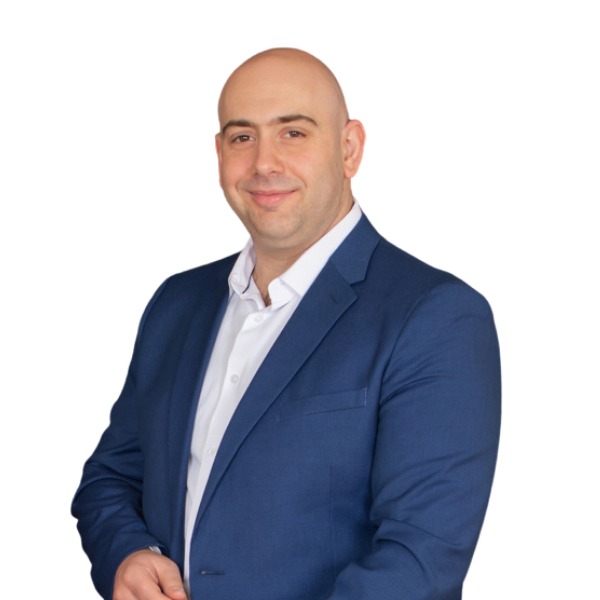
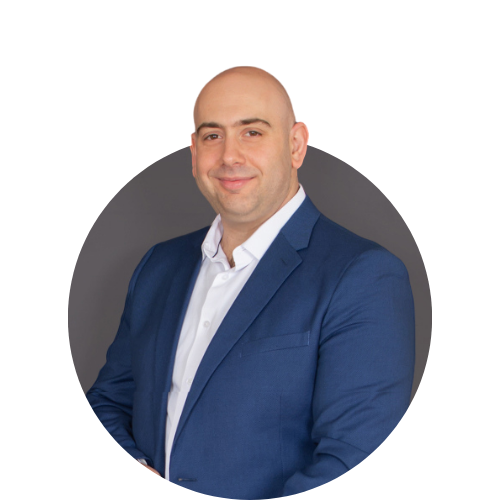
update 0817

diff --git a/index.html b/index.html
@@ -85,7 +85,7 @@
             <div class="row g-5">
                 <div class="col-lg-4 sticky-lg-top vh-100">
                     <div class="d-flex flex-column h-100 text-center overflow-auto shadow">
-                        <img class="w-100 mypic img-fluid" src="assets/img/profile.jpg" alt="Pablo Alejandro Londero - Software Engineer">
+                        <img class="w-100 mypic img-fluid" src="assets/img/profile.png" alt="Pablo Alejandro Londero - Software Engineer">
                         <h1 class="name mt-2">Pablo Alejandro Londero</h1>
                         
                         <!-- Professional Tagline -->
@@ -104,7 +104,7 @@
                         
                         <!-- Social Links -->
                         <div class="d-flex justify-content-center mt-auto mb-3">
-                            <a class="btn btn-secondary btn-square mx-1" href="https://github.com/plondero" aria-label="GitHub Profile" target="_blank" rel="noopener">
+                            <a class="btn btn-secondary btn-square mx-1" href="https://github.com/gotanweb" aria-label="GitHub Profile" target="_blank" rel="noopener">
                                 <i class="fab fa-github"></i>
                             </a>
                             <a class="btn btn-secondary btn-square mx-1" href="https://public.tableau.com/app/profile/pablo.alejandro.londero" aria-label="Tableau Public Profile" target="_blank" rel="noopener">
@@ -113,14 +113,14 @@
                             <a class="btn btn-secondary btn-square mx-1" href="https://www.linkedin.com/in/pablo-londero/" aria-label="LinkedIn Profile" target="_blank" rel="noopener">
                                 <i class="fab fa-linkedin-in"></i>
                             </a>
-                            <a class="btn btn-secondary btn-square mx-1" href="mailto:pablo@plondero.com" aria-label="Email Contact">
+                            <a class="btn btn-secondary btn-square mx-1" href="mailto:pablo.londero88@gmail.com" aria-label="Email Contact">
                                 <i class="fas fa-envelope"></i>
                             </a>
                         </div>
                         
                         <!-- Action Buttons -->
                         <div class="d-flex align-items-end justify-content-between border-top">
-                            <a href="https://drive.google.com/file/d/1qwK3eKsjycST_HtduB3-6XkCS1_DC_Bo/view?usp=sharing" class="btn w-50 border-end" target="_blank" rel="noopener">
+                            <a href="https://1drv.ms/b/c/d5c2d7a177f587de/EaFTlsd2WfRIpP61vTx1iTUBUCB-5U4SbrUtkEa46iZp2Q?e=YcWCyd" class="btn w-50 border-end" target="_blank" rel="noopener">
                                 <i class="fas fa-download me-1"></i>Download CV
                             </a>
                             <a href="#contact" class="btn w-50 btn-scroll">
@@ -193,19 +193,19 @@
                                     <div class="skill-item mb-3">
                                         <div class="d-flex justify-content-between mb-1">
                                             <span>Tableau & Power BI</span>
-                                            <span>90%</span>
+                                            <span>85%</span>
                                         </div>
                                         <div class="progress">
-                                            <div class="progress-bar bg-primary" role="progressbar" style="width: 90%"></div>
+                                            <div class="progress-bar bg-primary" role="progressbar" style="width: 85%"></div>
                                         </div>
                                     </div>
                                     <div class="skill-item mb-3">
                                         <div class="d-flex justify-content-between mb-1">
                                             <span>Python & R</span>
-                                            <span>85%</span>
+                                            <span>70%</span>
                                         </div>
                                         <div class="progress">
-                                            <div class="progress-bar bg-primary" role="progressbar" style="width: 85%"></div>
+                                            <div class="progress-bar bg-primary" role="progressbar" style="width: 70%"></div>
                                         </div>
                                     </div>
                                     <div class="skill-item mb-3">
@@ -236,28 +236,28 @@
                                     <div class="skill-item mb-3">
                                         <div class="d-flex justify-content-between mb-1">
                                             <span>Python</span>
-                                            <span>85%</span>
+                                            <span>70%</span>
                                         </div>
                                         <div class="progress">
-                                            <div class="progress-bar bg-success" role="progressbar" style="width: 85%"></div>
+                                            <div class="progress-bar bg-success" role="progressbar" style="width: 70%"></div>
                                         </div>
                                     </div>
                                     <div class="skill-item mb-3">
                                         <div class="d-flex justify-content-between mb-1">
                                             <span>Java</span>
-                                            <span>75%</span>
+                                            <span>40%</span>
                                         </div>
                                         <div class="progress">
-                                            <div class="progress-bar bg-success" role="progressbar" style="width: 75%"></div>
+                                            <div class="progress-bar bg-success" role="progressbar" style="width: 40%"></div>
                                         </div>
                                     </div>
                                     <div class="skill-item mb-3">
                                         <div class="d-flex justify-content-between mb-1">
                                             <span>C/C++</span>
-                                            <span>70%</span>
+                                            <span>75%</span>
                                         </div>
                                         <div class="progress">
-                                            <div class="progress-bar bg-success" role="progressbar" style="width: 70%"></div>
+                                            <div class="progress-bar bg-success" role="progressbar" style="width: 75%"></div>
                                         </div>
                                     </div>
                                 </div>
@@ -313,7 +313,6 @@
                                         </p>
                                     </div>
                                     <div class="timeline-body">
-                                        <p class="mb-3"><strong>ERP Development Leader | Data Architecture Specialist</strong></p>
                                         <ul class="timeline-achievements">
                                             <li>Designed and developed <strong>custom, high-performance</strong> websites using responsive design principles, modern frameworks, and scalable architectures.</li>
                                             <li>Administered and optimized MySQL relational databases, ensuring data integrity, query performance optimization, and secure access protocols.</li>
@@ -321,11 +320,14 @@
                                             <li>Implemented frontend and backend features in PHP, Laravel, and JavaScript, improving user experience and workflow efficiency.</li>
                                         </ul>
                                         <div class="tech-stack mt-3">
+                                            <span class="badge tech-badge m-1">HTML5</span>
+                                            <span class="badge tech-badge m-1">CSS3</span>
+                                            <span class="badge tech-badge m-1">JS</span>
+                                            <span class="badge tech-badge m-1">PHP</span>
+                                            <span class="badge tech-badge m-1">Laravel</span>
                                             <span class="badge tech-badge m-1">SQL</span>
-                                            <span class="badge tech-badge m-1">Meta4 PeopleNet</span>
+                                            <span class="badge tech-badge m-1">Power BI</span>
                                             <span class="badge tech-badge m-1">Tableau</span>
-                                            <span class="badge tech-badge m-1">Python</span>
-                                            <span class="badge tech-badge m-1">Oracle PL/SQL</span>
                                         </div>
                                     </div>
                                 </div>
@@ -345,15 +347,16 @@
                                     <div class="timeline-body">
                                         <p class="mb-3"><strong>ERP Development Leader | Data Architecture Specialist</strong></p>
                                         <ul class="timeline-achievements">
-                                            <li>Led ERP development projects for Payroll and HR modules, managing datasets of <strong>1M+ records</strong></li>
-                                            <li>Achieved <strong>25% reduction</strong> in payroll processing time through query optimization</li>
-                                            <li>Developed interactive dashboards using Tableau for C-level decision making</li>
-                                            <li>Implemented data migration strategies with <strong>99.9% accuracy</strong></li>
-                                            <li>Mentored team of 5 junior developers on best practices</li>
+                                            <li>Led ERP development projects for Payroll and HR modules, ensuring system scalability and compliance with industry standards.</li>
+                                            <li>Utilized SQL and Meta4 PeopleNet to manage and migrate large datasets, enhancing system performance and reliability.</li>
+                                            <li>Developed interactive dashboards and custom reports in Power BI to optimize payroll operations and support informed decision-making.</li>
+                                            <li>Collaborated with cross-functional teams to identify pain points, delivering tailored technical solutions.</li>
+                                            <li>Optimized database queries and workflows, reducing payroll task execution time by 25%.</li>
                                         </ul>
                                         <div class="tech-stack mt-3">
                                             <span class="badge tech-badge m-1">SQL</span>
                                             <span class="badge tech-badge m-1">Meta4 PeopleNet</span>
+                                            <span class="badge tech-badge m-1">ERP</span>
                                             <span class="badge tech-badge m-1">Tableau</span>
                                             <span class="badge tech-badge m-1">Python</span>
                                             <span class="badge tech-badge m-1">Oracle PL/SQL</span>
@@ -376,18 +379,18 @@
                                     <div class="timeline-body">
                                         <p class="mb-3"><strong>Semi-Senior Developer | HR Systems Specialist</strong></p>
                                         <ul class="timeline-achievements">
-                                            <li>Developed custom HR functionalities serving <strong>10,000+ employees</strong> globally</li>
-                                            <li>Reduced data validation time by <strong>30%</strong> through automated testing</li>
-                                            <li>Implemented RESTful APIs for system integration</li>
-                                            <li>Led root cause analysis reducing system incidents by <strong>40%</strong></li>
-                                            <li>Created comprehensive documentation improving onboarding time by 50%</li>
+                                            <li>Developed and tested ERP solutions for HR systems in global projects, using Oracle PL/SQL, PHP, and Laravel.</li>
+                                            <li>Created custom functionalities to improve usability and meet project requirements, increasing process efficiency.</li>
+                                            <li>Conducted root cause analysis for system incidents, implementing fixes that improved performance metrics.</li>
+                                            <li>Reduced data validation time by 30% through new automated functionalities for HR workflows.</li>
+                                            <li>Designed and executed test cases, ensuring early detection and resolution of system errors.</li>
                                         </ul>
                                         <div class="tech-stack mt-3">
                                             <span class="badge tech-badge m-1">PHP</span>
                                             <span class="badge tech-badge m-1">Laravel</span>
                                             <span class="badge tech-badge m-1">Oracle PL/SQL</span>
-                                            <span class="badge tech-badge m-1">JavaScript</span>
-                                            <span class="badge tech-badge m-1">REST APIs</span>
+                                            <span class="badge tech-badge m-1">Meta4 PeopleNet</span>
+                                            <span class="badge tech-badge m-1">ERP</span>
                                         </div>
                                     </div>
                                 </div>
@@ -407,18 +410,19 @@
                                     <div class="timeline-body">
                                         <p class="mb-3"><strong>Database Architecture Lead | Process Automation Expert</strong></p>
                                         <ul class="timeline-achievements">
-                                            <li>Architected HR database system supporting <strong>5,000+ employees</strong></li>
-                                            <li>Led digital transformation initiative saving <strong>$100K+ annually</strong></li>
-                                            <li>Reduced manual processing time by <strong>50%</strong> through automation</li>
-                                            <li>Migrated legacy systems to modern SQL/Oracle infrastructure</li>
-                                            <li>Trained 50+ end-users on new database tools and interfaces</li>
+                                            <li>Architected and optimized SQL-based HR database structures to improve performance and scalability.</li>
+                                            <li>Led data migration projects from legacy systems to SQL/Oracle databases, ensuring seamless transitions and data integrity.</li>
+                                            <li>Digitized and centralized financial data, creating user-friendly interfaces for budget tracking and reporting.</li>
+                                            <li>Automated manual processes, reducing execution time by 50% through optimized queries and scripts.</li>
+                                            <li>Provided technical training to end-users, improving effective database utilization.</li>
                                         </ul>
                                         <div class="tech-stack mt-3">
                                             <span class="badge tech-badge m-1">MySQL</span>
                                             <span class="badge tech-badge m-1">Oracle</span>
-                                            <span class="badge tech-badge m-1">SQL Server</span>
                                             <span class="badge tech-badge m-1">Data Migration</span>
                                             <span class="badge tech-badge m-1">Process Automation</span>
+                                            <span class="badge tech-badge m-1">PHP</span>
+                                            <span class="badge tech-badge m-1">C++</span>
                                         </div>
                                     </div>
                                 </div>
@@ -589,7 +593,7 @@
                             
                             <!-- Certification Platforms -->
                             <div class="certification-platforms-section mt-5" data-aos="fade-up" data-aos-delay="500">
-                                <h4 class="mb-3 text-center">Learning Platforms</h4>
+                                <h4 class="mb-3 text-center learning-platforms">Learning Platforms</h4>
                                 <div class="platform-logos">
                                     <img src="assets/img/certifications/coursera-logo.png" alt="Coursera" class="platform-logo">
                                     <img src="assets/img/certifications/linkedinlearning-logo.png" alt="LinkedIn Learning" class="platform-logo">
@@ -598,10 +602,16 @@
                                     <img src="assets/img/certifications/educacionit-logo.png" alt="EducacionIT" class="platform-logo">
                                 </div>
                             </div>
+                        </div>
+
+                        <!-- Digital Badge -->
+                        <div class="digital-badge-section">
+                            <h3 class="mb-4" data-aos="fade-up" data-aos-delay="100">
+                                <i class="fas fa-certificate me-2"></i>Digital Badge
+                            </h3>
 
                             <!-- Digital Badge Section -->
                             <div class="digital-badge-section mt-5" data-aos="fade-up" data-aos-delay="600">
-                                <h4 class="mb-4 text-center">Digital Badge</h4>
                                 <div class="digital-badge-content">
                                     <div class="row align-items-center">
                                         <div class="col-md-4 text-center mb-3 mb-md-0">

diff --git a/assets/css/style.css b/assets/css/style.css
@@ -504,6 +504,10 @@ body.dark-mode .skills-category h5 i {
   margin-top: 30px;
 }
 
+.learning-platforms{
+  color: var(--dark);
+}
+
 .platform-logos {
   display: flex;
   flex-wrap: wrap;
@@ -531,7 +535,6 @@ body.dark-mode .skills-category h5 i {
   padding: 30px 20px;
   /*border-radius: 10px;*/
   margin-top: 30px;
-  text-align: center;
 }
 
 .digital-badge-section h5 {
